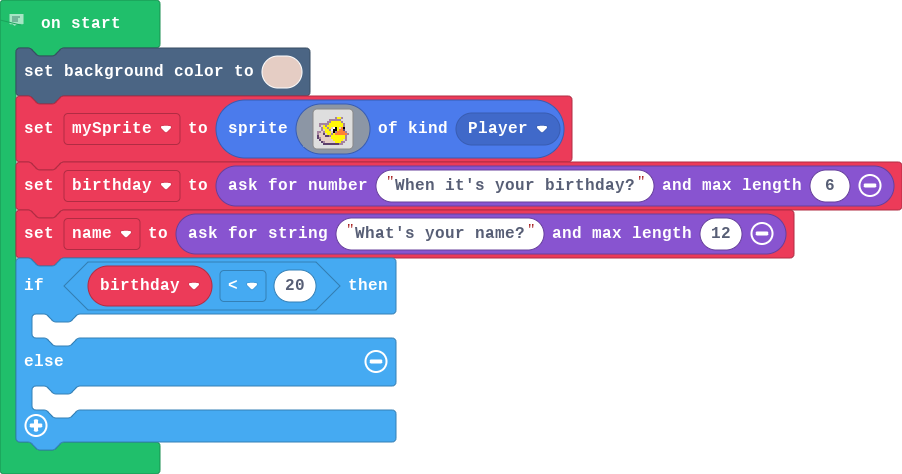
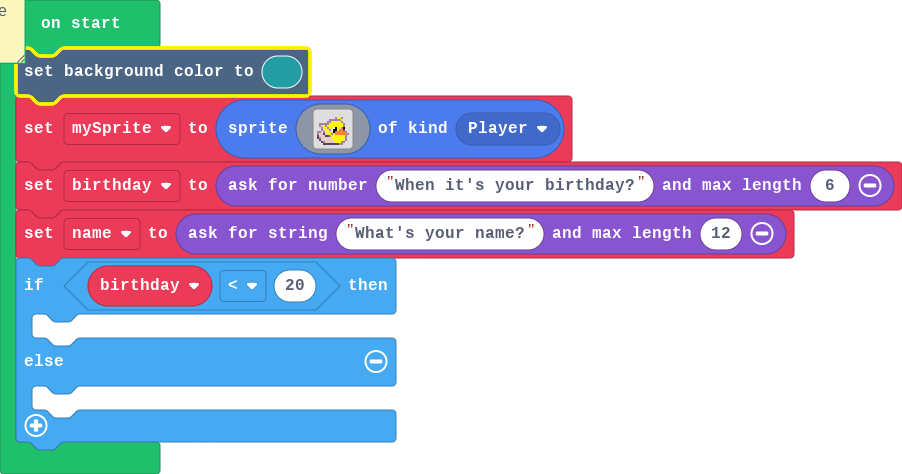
Update main.blocks, main.ts

Changed region(s): [[0.0, 0.0, 0.3725, 0.2068], [0.031, 0.2068, 0.0621, 0.2363]]

diff --git a/main.ts b/main.ts
@@ -1,5 +1,5 @@
 // Don't forget to comment your code as you work!
-scene.setBackgroundColor(13)
+scene.setBackgroundColor(6)
 let mySprite = sprites.create(img`
     . . . . . . . . . . . . . . . . 
     . . . . . . . . . . . . . . . . 
